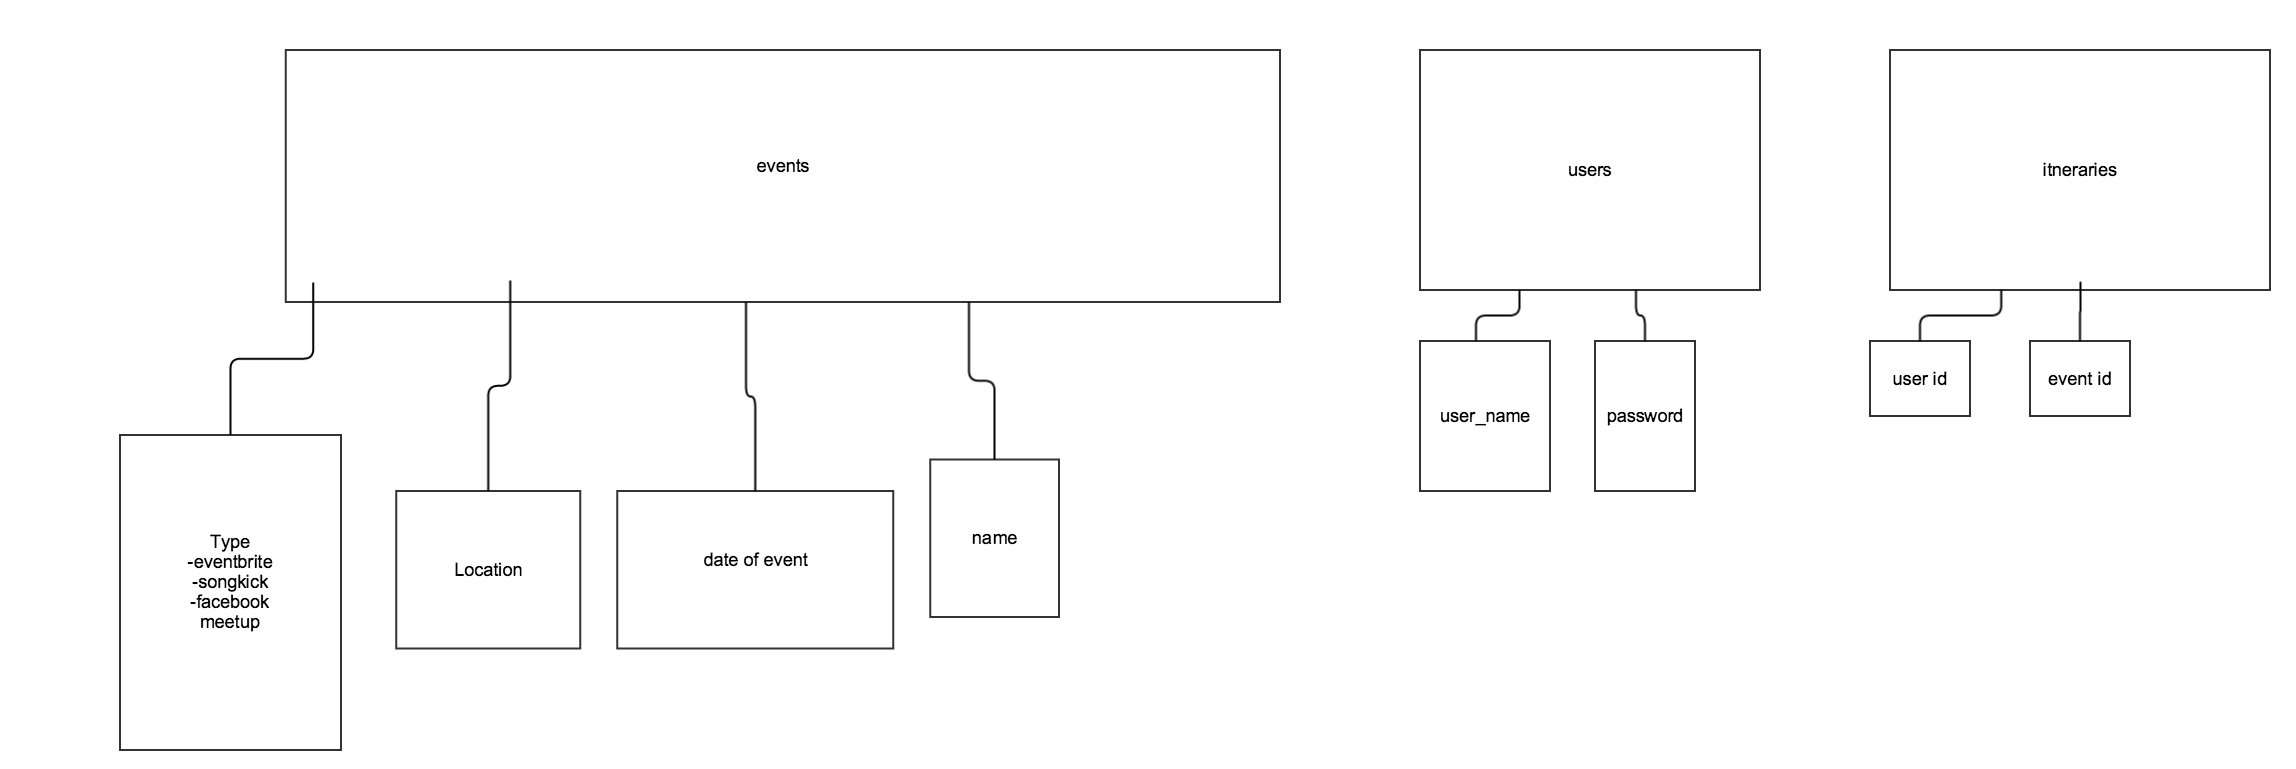
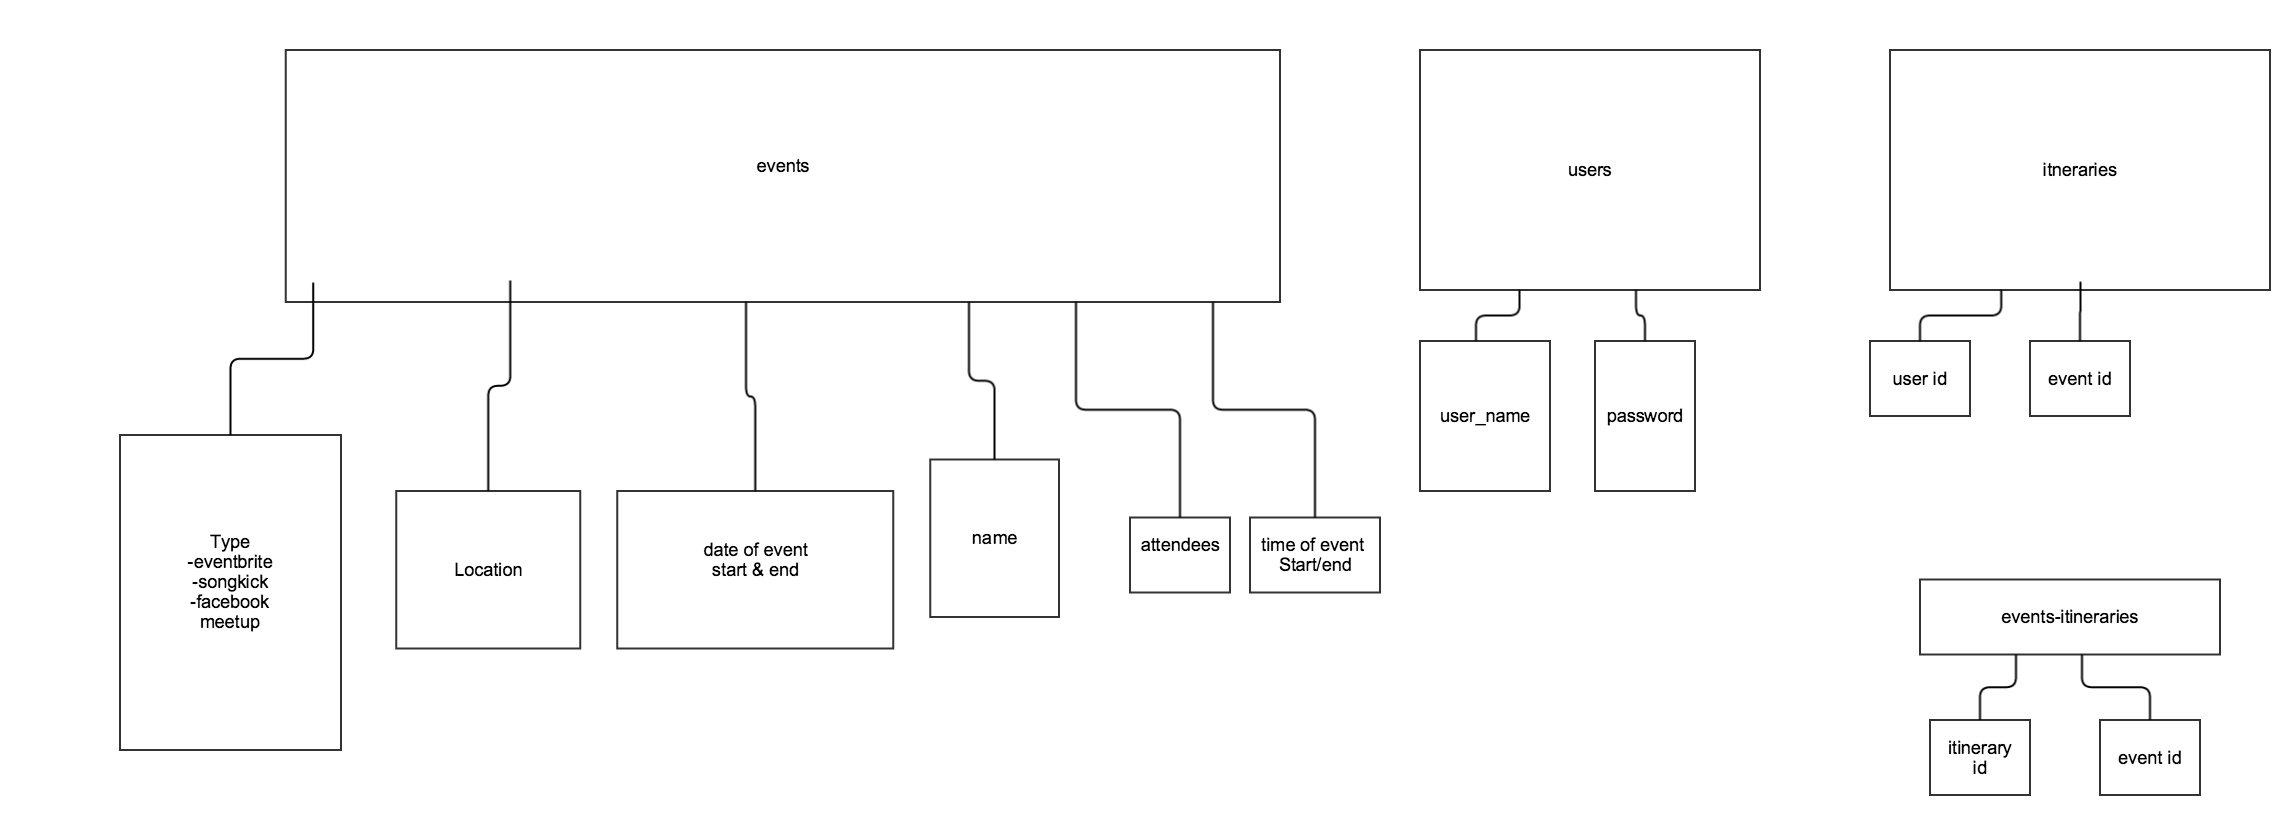
create models

diff --git a/db/migrate/20150126213642_create_event_itineraries.rb b/db/migrate/20150126213642_create_event_itineraries.rb
@@ -1,0 +1,12 @@
+class CreateEventItineraries < ActiveRecord::Migration
+  def change
+    create_table :event_itineraries do |t|
+      t.references :intinerary, index: true
+      t.references :event, index: true
+
+      t.timestamps null: false
+    end
+    add_foreign_key :event_itineraries, :intineraries
+    add_foreign_key :event_itineraries, :events
+  end
+end

diff --git a/db/migrate/20150126213530_create_intineraries.rb b/db/migrate/20150126213530_create_intineraries.rb
@@ -1,0 +1,12 @@
+class CreateIntineraries < ActiveRecord::Migration
+  def change
+    create_table :intineraries do |t|
+      t.references :user, index: true
+      t.references :event, index: true
+
+      t.timestamps null: false
+    end
+    add_foreign_key :intineraries, :users
+    add_foreign_key :intineraries, :events
+  end
+end

diff --git a/db/migrate/20150126213351_create_users.rb b/db/migrate/20150126213351_create_users.rb
@@ -1,0 +1,10 @@
+class CreateUsers < ActiveRecord::Migration
+  def change
+    create_table :users do |t|
+      t.string :username
+      t.string :password
+
+      t.timestamps null: false
+    end
+  end
+end

diff --git a/db/migrate/20150126213424_create_events.rb b/db/migrate/20150126213424_create_events.rb
@@ -1,0 +1,9 @@
+class CreateEvents < ActiveRecord::Migration
+  def change
+    create_table :events do |t|
+      t.string :name
+
+      t.timestamps null: false
+    end
+  end
+end

diff --git a/test/models/event_itinerary_test.rb b/test/models/event_itinerary_test.rb
@@ -1,0 +1,7 @@
+require 'test_helper'
+
+class EventItineraryTest < ActiveSupport::TestCase
+  # test "the truth" do
+  #   assert true
+  # end
+end

diff --git a/test/models/intinerary_test.rb b/test/models/intinerary_test.rb
@@ -1,0 +1,7 @@
+require 'test_helper'
+
+class IntineraryTest < ActiveSupport::TestCase
+  # test "the truth" do
+  #   assert true
+  # end
+end

diff --git a/test/models/event_test.rb b/test/models/event_test.rb
@@ -1,0 +1,7 @@
+require 'test_helper'
+
+class EventTest < ActiveSupport::TestCase
+  # test "the truth" do
+  #   assert true
+  # end
+end

diff --git a/test/models/user_test.rb b/test/models/user_test.rb
@@ -1,0 +1,7 @@
+require 'test_helper'
+
+class UserTest < ActiveSupport::TestCase
+  # test "the truth" do
+  #   assert true
+  # end
+end

diff --git a/app/models/event_itinerary.rb b/app/models/event_itinerary.rb
@@ -1,0 +1,4 @@
+class EventItinerary < ActiveRecord::Base
+  belongs_to :intinerary
+  belongs_to :event
+end

diff --git a/app/models/intinerary.rb b/app/models/intinerary.rb
@@ -1,0 +1,4 @@
+class Intinerary < ActiveRecord::Base
+  belongs_to :user
+  belongs_to :event
+end

diff --git a/app/models/event.rb b/app/models/event.rb
@@ -1,0 +1,2 @@
+class Event < ActiveRecord::Base
+end

diff --git a/app/models/user.rb b/app/models/user.rb
@@ -1,0 +1,2 @@
+class User < ActiveRecord::Base
+end
